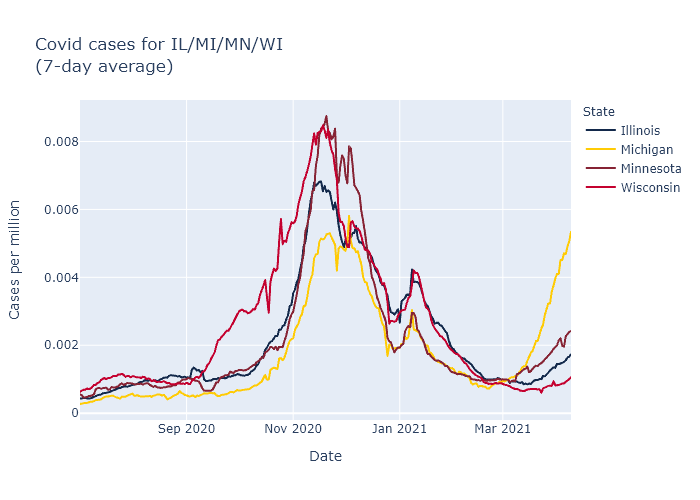
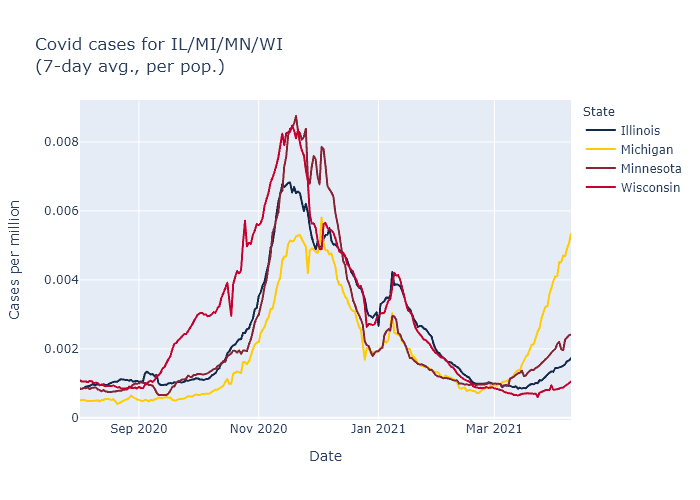
Update date range on midwest plot

diff --git a/WorkNYT.py b/WorkNYT.py
@@ -39,7 +39,7 @@ p = p.diff(periods=7)
 plotdata = p.melt(value_name='Cases per million', ignore_index=False).reset_index()
 
 # Limit dates
-plotdata = plotdata[plotdata.Date > datetime.datetime(2020, 7, 1)]
+plotdata = plotdata[plotdata.Date > datetime.datetime(2020, 8, 1)]
 
 
 #%% Plot
@@ -50,7 +50,7 @@ fig = px.line(
     y='Cases per million',
     color='State',
     color_discrete_map={'Illinois':'#13294B', 'Michigan':'#FFCB05', 'Minnesota':'#862334', 'Wisconsin':'#C4012F'},
-    title='Covid cases for IL/MI/MN/WI<br>(7-day avg, per pop.)'
+    title='Covid cases for IL/MI/MN/WI<br>(7-day avg., per pop.)'
     )
 
 pngfile = 'docs\\assets\\Cases-Midwest-States-2021-04-10.png'
